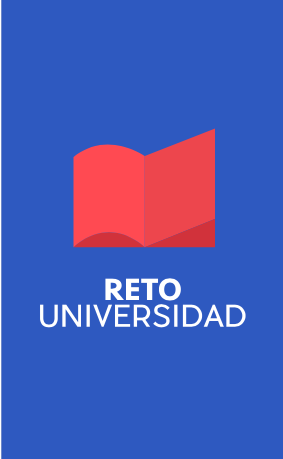
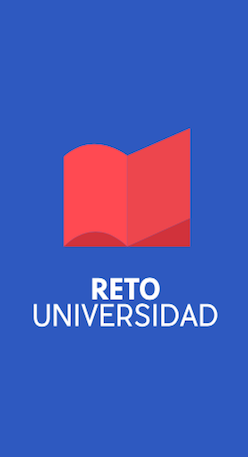
Add fixes landing

diff --git a/src/app/index.css b/src/app/index.css
@@ -101,6 +101,7 @@ a {
   position: relative;
   width: 100%;
   height: 100vh;
+  overflow: hidden;
 }
 .imagen-slider{
   width: 100%;
@@ -149,6 +150,28 @@ a {
   visibility: visible;
   opacity: 1;
   transition: visibility 1s, opacity 1s;
+  animation-name: next;
+  animation-duration: 7.5s;
+}
+
+.cambiar{
+  animation-name: next;
+  animation-duration: 7.5s;
+}
+
+@keyframes next {
+  0%   {margin-left: 100vw;}
+  10%  {margin-left: 0px;}
+  50%  {margin-left: 0px;}
+  90%  {margin-left: 0px;}
+  100% {margin-left: -100vw;}
+  }
+@keyframes prev {
+  0%   {margin-left: -100vw;}
+  10%  {margin-left: 0px;}
+  50%  {margin-left: 0px;}
+  90%  {margin-left: 0px;}
+  100% {margin-left: 100vw;}
 }
 .imagen-slider img{
   width: 100%;
@@ -274,18 +297,18 @@ a {
 }
 .app .segunda-columna{
   background-image: url(../assets/images/contenedor.png);
-  background-size: 235px 442px;
+  background-size: 100% 100%;
   background-repeat: no-repeat;
   background-position: center;
-  width: 250px;
-  height: 450px;
+  width: 218px;
+  height: 440px;
   display: flex;
   justify-content: center;
   align-items: center;
 }
 .app .segunda-columna .contenido-de-funciones{
   border: 1px solid black;
-  width: 212px;
+  width: 194px;
   height: 342px;
   margin-top: -10px;
 }
@@ -477,36 +500,49 @@ a {
   background-image: url(../assets/images/00.png);
   background-position: center;
   transition: 1s;
+  background-size: 100% 100% !important;
+  background-repeat: no-repeat;
 }
 .uno{
-  background-image: url(../assets/images/00.png);
-  background-position: center;
+  background-image: url(../assets/images/01.jpg);
   transition: 1s;
+  background-size: 100% 100% !important;
+  background-repeat: no-repeat;
 }
 .dos{
-  background-image: url(../assets/images/00.png);
+  background-image: url(../assets/images/02.jpg);
   background-position: center;
   transition: 1s;
+  background-size: 100% 100% !important;
+  background-repeat: no-repeat;
 }
 .tres{
-  background-image: url(../assets/images/00.png);
+  background-image: url(../assets/images/03.jpg);
   background-position: center;
   transition: 1s;
+  background-size: 100% 100% !important;
+  background-repeat: no-repeat;
 }
 .cuatro{
-  background-image: url(../assets/images/00.png);
+  background-image: url(../assets/images/04.png);
   background-position: center;
   transition: 1s;
+  background-size: 100% 100% !important;
+  background-repeat: no-repeat;
 }
 .cinco{
-  background-image: url(../assets/images/00.png);
+  background-image: url(../assets/images/05.jpg);
   background-position: center;
   transition: 1s;
+  background-size: 100% 100% !important;
+  background-repeat: no-repeat;
 }
 .seis{
-  background-image: url(../assets/images/00.png);
+  background-image: url(../assets/images/06.jpg);
   background-position: center;
   transition: 1s;
+  background-size: 100% 100% !important;
+  background-repeat: no-repeat;
 }
 .hidden-lg{
     display: none !important;

diff --git a/src/app/main/main.html b/src/app/main/main.html
@@ -72,15 +72,6 @@
   <div class="contenedor-slider" id="anchor{{0}}">
   <!-- imagenes del slider -->
     <div class="imagen-slider actual fondo">
-      <div class="texto-slider texto-fondo">
-        <img src="../assets/images/fondo02.png">
-        <p><strong>Reto Universidad</strong><br>Es una app que te apoya en tu<br>preparación a los exámenes de<br>admisión a la universidad.</p>
-        <a href="">
-          ¡Descubre  todo lo que puedes hacer!
-        </a>
-      </div>
-    </div>
-    <div class="imagen-slider">
       <img src="../assets/images/ru1.jpg">
       <div class="texto-slider texto-fondo">
         <img src="../assets/images/fondo02.png">
@@ -110,7 +101,7 @@
         </a>
       </div>
     </div>
-    <div class="imagen-slider">
+    <div class="imagen-slider cambiar">
       <img src="../assets/images/ru4.jpg">
       <div class="texto-slider texto-fondo">
         <img src="../assets/images/fondo02.png">

diff --git a/src/app/main/main.controller.js b/src/app/main/main.controller.js
@@ -124,6 +124,7 @@ function borradoOcho() {
 // funcionalidad del slide
 
 var actual = 0;
+var cambiar = 0;
 function puntos(n) {
   var ptn = document.getElementsByClassName("punto");
   for (i = 0; i < ptn.length; i++) {
